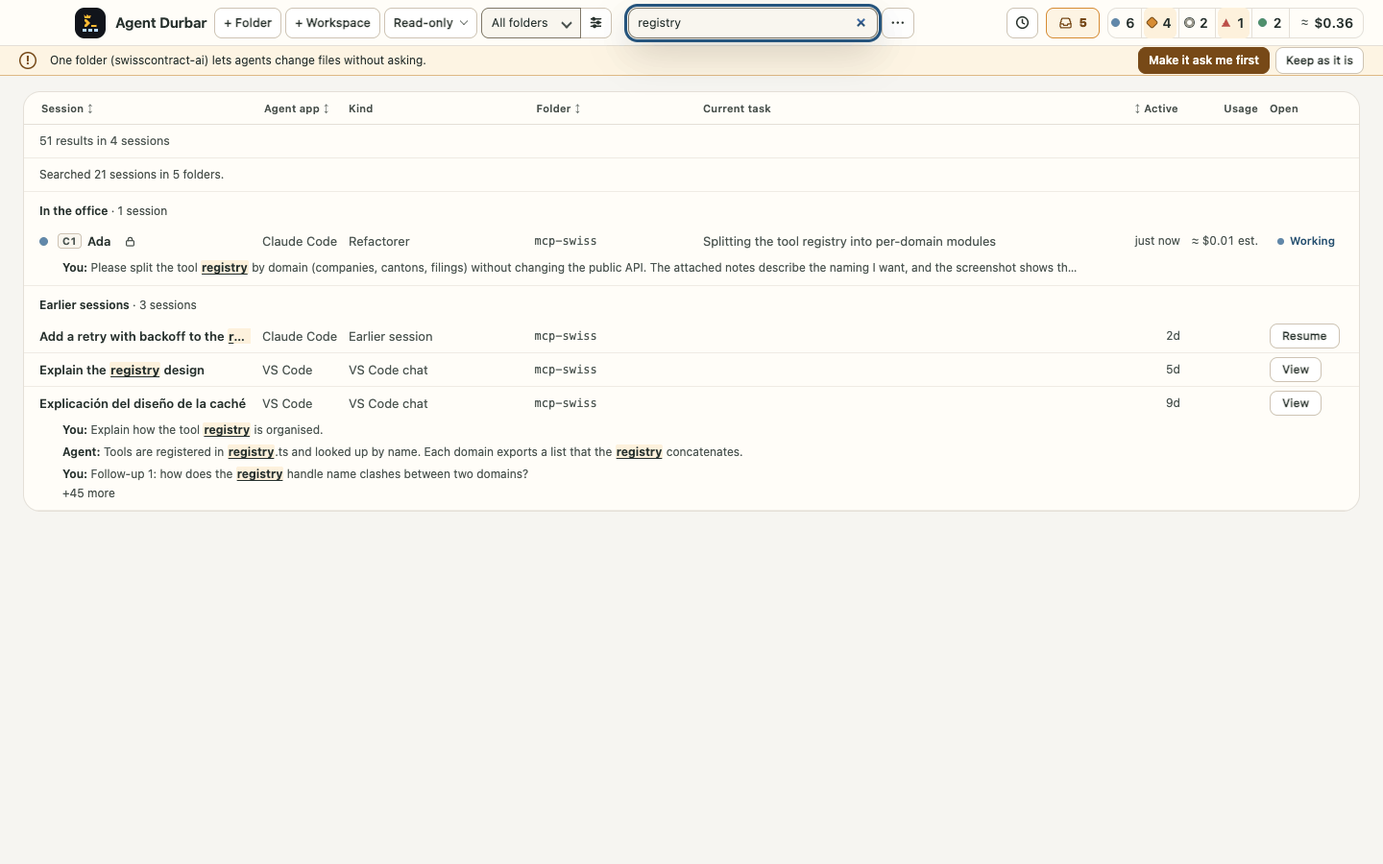
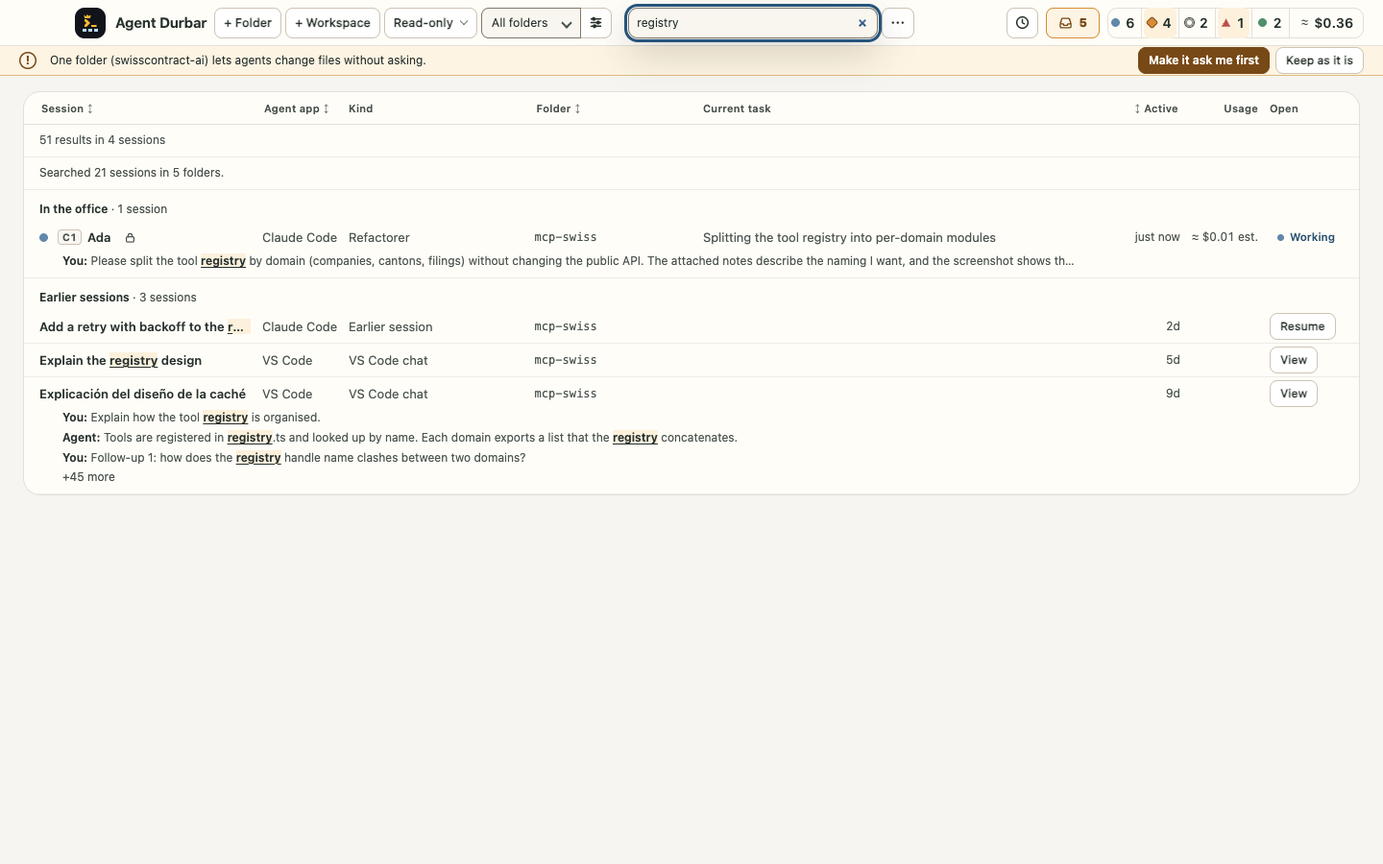
095: the search window's sizes from the type and spacing scale and its buttons the app's own class sets (spec 070 size ratchet from main); agent-notes within budget after main's entries

diff --git a/scripts/shots-095.js b/scripts/shots-095.js
@@ -38,7 +38,7 @@ module.exports = async (ctx) => {
   const shortcut = () => key('F', [MOD, 'shift'], { char: 'never' });
   const results = () => js(`(()=>{const L=document.getElementById('list');return {list:document.body.classList.contains('list-mode'),
     state:(L.querySelector('.cs-st')||{}).textContent||'',notes:(L.querySelector('.cs-notes')||{}).textContent||'',groups:[...L.querySelectorAll('.cs-ghead')].map(g=>g.textContent.trim()),
-    hits:[...L.querySelectorAll('.cs-hit')].map(h=>({k:h.dataset.csk,ex:h.querySelectorAll('.cs-ex').length,marks:h.querySelectorAll('mark').length})),stop:!!document.getElementById('csStop')};})()`);
+    hits:[...L.querySelectorAll('.cs-hit')].map(h=>({k:h.dataset.csk,ex:h.querySelectorAll('[data-csx]').length,marks:h.querySelectorAll('mark').length})),stop:!!document.getElementById('csStop')};})()`);
   const typeQuery = async (q) => {
     await js(`(()=>{const s=document.getElementById('convSearch');s.value='';s.dispatchEvent(new Event('input'));})()`);
     await ok(`!document.querySelector('#list .cs-wrap')`, 'an emptied box ends the search (no results left from the last one)', 3000);
@@ -51,7 +51,7 @@ module.exports = async (ctx) => {
   const fit = () => js(`(()=>{const L=document.getElementById('list'),rs=[...L.querySelectorAll('.cs-hit')].map(e=>e.getBoundingClientRect());
     const fonts=[...L.querySelectorAll('.cs-hit *, .cs-st, .cs-notes, .cs-ghead, .lhead *')].filter(e=>e.childNodes.length&&[...e.childNodes].some(n=>n.nodeType===3&&n.textContent.trim())).map(e=>parseFloat(getComputedStyle(e).fontSize));
     const over=rs.some((r,i)=>i>0&&r.top<rs[i-1].bottom-0.5);
-    const ex=[...L.querySelectorAll('.cs-ex')].map(e=>{const lh=parseFloat(getComputedStyle(e).lineHeight);return e.getBoundingClientRect().height/lh;});
+    const ex=[...L.querySelectorAll('[data-csx]')].map(e=>{const lh=parseFloat(getComputedStyle(e).lineHeight);return e.getBoundingClientRect().height/lh;});
     const de=document.documentElement;return {min:Math.min(...fonts),over,maxLines:Math.max(0,...ex),pageScroll:de.scrollHeight>innerHeight+1||de.scrollWidth>innerWidth+1,inner:getComputedStyle(L).overflowY};})()`);
   /* the marked bubble in the chat: inside the chat's view */
   const jumped = (vs) => js(`(()=>{const c=document.getElementById('chat'),b=c&&c.querySelector(${jsLiteral((vs ? '.vsbody ' : '') + '.bubble.nt-found')});if(!b)return null;const r=b.getBoundingClientRect(),q=c.getBoundingClientRect();return {text:b.textContent.slice(0,80),inView:r.top>=q.top-1&&r.bottom<=q.bottom+1};})()`);
@@ -156,7 +156,7 @@ module.exports = async (ctx) => {
     await ok(`!document.body.classList.contains('panel-open')&&!!document.querySelector('#list .cs-hit')`, `${w}: closing the chat comes back to the results`);
 
     // ---- US2.3: a VS Code chat opens in the viewer at its message ----
-    await js(`(()=>{const h=[...document.querySelectorAll('#list .cs-hit')].find(x=>/^earlier:vscode/.test(x.dataset.csk)&&x.querySelectorAll('.cs-ex').length>2);h.querySelectorAll('.cs-ex')[2].click();})()`);
+    await js(`(()=>{const h=[...document.querySelectorAll('#list .cs-hit')].find(x=>/^earlier:vscode/.test(x.dataset.csk)&&x.querySelectorAll('[data-csx]').length>2);h.querySelectorAll('[data-csx]')[2].click();})()`);
     await ok(`!!document.querySelector('#chat .vsbody .bubble.nt-found')`, `${w}: the VS Code viewer marks the message`);
     j = await jumped(true);
     assert.ok(j && j.inView && /Follow-up 1/.test(j.text), `${w}: the third excerpt's message: ${JSON.stringify(j)}`);
@@ -166,13 +166,13 @@ module.exports = async (ctx) => {
     // ---- US2.2: an earlier Claude Code session resumes at its message (Resume, the Previous sessions path) ----
     await typeQuery('filings handler');
     await doneWith(1);
-    await js(`(()=>{const h=[...document.querySelectorAll('#list .cs-hit')].find(x=>/^earlier:claude:/.test(x.dataset.csk)&&x.querySelector('.cs-ex'));h.querySelector('.cs-ex').click();})()`);
+    await js(`(()=>{const h=[...document.querySelectorAll('#list .cs-hit')].find(x=>/^earlier:claude:/.test(x.dataset.csk)&&x.querySelector('[data-csx]'));h.querySelector('[data-csx]').click();})()`);
     await ok(`document.body.classList.contains('panel-open')&&!!document.querySelector('#chat .bubble.nt-found')`, `${w}: the resumed session shows the message`, 12000);
     j = await jumped(false);
     assert.ok(j && j.inView && /filings/i.test(j.text), `${w}: the resumed session's message: ${JSON.stringify(j)}`);
     await closeChat();
     await ok(`!document.body.classList.contains('panel-open')`, `${w}: back`);
-    await ok(`[...document.querySelectorAll('#list .cs-act')].some(b=>b.textContent==='Open')`, `${w}: the resumed one now says Open (it is in the office)`);
+    await ok(`[...document.querySelectorAll('#list [data-csact]')].some(b=>b.textContent==='Open')`, `${w}: the resumed one now says Open (it is in the office)`);
 
     // ---- US3.2: Escape in the results clears the query and goes back to the Office view and the desk ----
     await focusBox();
@@ -195,16 +195,16 @@ module.exports = async (ctx) => {
     // US5.2: an earlier Copilot session is a title hit: Resume opens it at the end, no message marked
     await typeQuery('backoff');
     await doneWith(1);
-    await ok(`[...document.querySelectorAll('#list .cs-hit')].some(x=>/^earlier:copilot:/.test(x.dataset.csk)&&!x.querySelector('.cs-ex')&&x.querySelector('mark'))`, `${w}: an earlier Copilot session matches by its title, marked, with no excerpt`);
+    await ok(`[...document.querySelectorAll('#list .cs-hit')].some(x=>/^earlier:copilot:/.test(x.dataset.csk)&&!x.querySelector('[data-csx]')&&x.querySelector('mark'))`, `${w}: an earlier Copilot session matches by its title, marked, with no excerpt`);
     assert.ok(/Not searched: earlier GitHub Copilot sessions, by title only \(\d+\)\./.test((await results()).notes), `${w}: the end state says Copilot's earlier sessions are searched by title only (Q4)`);
-    await js(`[...document.querySelectorAll('#list .cs-hit')].find(x=>/^earlier:copilot:/.test(x.dataset.csk)).querySelector('.cs-act').click()`);
+    await js(`[...document.querySelectorAll('#list .cs-hit')].find(x=>/^earlier:copilot:/.test(x.dataset.csk)).querySelector('[data-csact]').click()`);
     await ok(`document.body.classList.contains('panel-open')`, `${w}: Resume opens it`, 12000);
     await ctx.sleep(400);
     assert.ok(!(await js(`!!document.querySelector('#chat .bubble.nt-found')`)), `${w}: a title hit opens at the end, no message marked`);
     await closeChat();
     await typeQuery('pipeline');
     await doneWith(1);
-    await js(`document.querySelector('#list .cs-row ~ .cs-exs .cs-ex').click()`);
+    await js(`document.querySelector('#list .cs-row ~ .cs-exs [data-csx]').click()`);
     await ok(`document.body.classList.contains('panel-open')`, `${w}: the chat opens`);
     await ok(`[...document.querySelectorAll('#toasts .toast')].some(t=>t.textContent.includes('That message is older than the chat shows.'))`, `${w}: "That message is older than the chat shows."`);
     assert.ok(!(await js(`!!document.querySelector('#chat .bubble.nt-found')`)), `${w}: and no wrong message is marked`);
@@ -231,7 +231,7 @@ module.exports = async (ctx) => {
         {adapter:'claude',sessionId:'evil-earlier',agentId:a.id,group:'earlier',app:'Claude Code',folderName:'demo',title:${jsLiteral('Evil ' + PAT)},titleMarks:[[0,4]],time:Date.now()-60000,excerpts:[],more:0}],progress:{done:1,total:9},groups:{office:1,earlier:1}});return a.id;})()`);
     await ok(`[...document.querySelectorAll('#list .cs-hit button.lrow[data-id]')].some(b=>b.dataset.id===${jsLiteral(injected)})`, `${w}: the injected result is shown`, 3000);
     const inj = await js(`(()=>{const h=[...document.querySelectorAll('#list .cs-hit')].find(x=>x.querySelector('button.lrow[data-id]')&&x.querySelector('button.lrow').dataset.id===${jsLiteral(injected)});
-      const rows=h.querySelectorAll('button.lrow'),b=rows[0];return {rows:rows.length,styled:[...document.querySelectorAll('#list [style]')].length,attrs:[...b.attributes].map(x=>x.name).sort(),label:b.getAttribute('aria-label'),name:(b.querySelector('.lnm')||{}).textContent,ex:(h.querySelector('.cs-ex')||{}).textContent};})()`);
+      const rows=h.querySelectorAll('button.lrow'),b=rows[0];return {rows:rows.length,styled:[...document.querySelectorAll('#list [style]')].length,attrs:[...b.attributes].map(x=>x.name).sort(),label:b.getAttribute('aria-label'),name:(b.querySelector('.lnm')||{}).textContent,ex:(h.querySelector('[data-csx]')||{}).textContent};})()`);
     assert.strictEqual(inj.rows, 1, `${w}: one row button: ${JSON.stringify(inj)}`);
     assert.strictEqual(inj.styled, 0, `${w}: no style attribute anywhere in the results: ${JSON.stringify(inj)}`);
     assert.deepStrictEqual(inj.attrs, ['aria-label', 'aria-pressed', 'class', 'data-csf', 'data-csk', 'data-csnav', 'data-id'], `${w}: only the row's own attributes`);
@@ -329,7 +329,7 @@ module.exports = async (ctx) => {
   await H.calm();
   await typeQuery('registry');
   await doneWith(1);
-  await js(`document.querySelector('#list .cs-row ~ .cs-exs .cs-ex').click()`);
+  await js(`document.querySelector('#list .cs-row ~ .cs-exs [data-csx]').click()`);
   await ok(`!!document.querySelector('#chat .bubble.nt-found')`, 'Real office: a result opens at its message');
   // ---- FR-050: reduced motion: the jump marks the message without a fade (the outline stays, no animation) ----
   {
@@ -342,7 +342,7 @@ module.exports = async (ctx) => {
       assert.ok(await js(`matchMedia('(prefers-reduced-motion: reduce)').matches`), 'reduced motion is emulated');
       await typeQuery('registry');
       await doneWith(1);
-      await js(`document.querySelector('#list .cs-row ~ .cs-exs .cs-ex').click()`);
+      await js(`document.querySelector('#list .cs-row ~ .cs-exs [data-csx]').click()`);
       await ok(`!!document.querySelector('#chat .bubble.nt-found')`, 'reduced motion: the message is marked');
       const st = await js(`(()=>{const b=document.querySelector('#chat .bubble.nt-found'),cs=getComputedStyle(b);return {anim:cs.animationName,outline:cs.outlineStyle};})()`);
       assert.ok(st.anim === 'none' && st.outline === 'solid', `reduced motion: an outline, no fade: ${JSON.stringify(st)}`);

diff --git a/src/renderer/app.js b/src/renderer/app.js
@@ -2114,9 +2114,9 @@ function renderConvResults(){
     const on=CS.sort&&CS.sort.key===k,dir=on?(CS.sort.dir==='asc'?'ascending':'descending'):'none';
     return `<span role="columnheader" aria-sort="${dir}"${k==='folder'?' class="lfold"':k==='ago'?' class="num"':''}><button type="button" class="lsort" data-cssort="${k}" data-csf="sort-${k}" title="Sort the results by ${esc(t.toLowerCase())}">${esc(t)}<span class="sarr" aria-hidden="true">${on?(CS.sort.dir==='asc'?'▲':'▼'):'↕'}</span></button></span>`;}).join('');
   const scanning=!!st&&!st.done;
-  const state=st?`<div class="cs-state"><span class="cs-st">${esc(CSU.stateText(st))}</span>${scanning&&CS.id?'<button class="btn cs-stop" type="button" id="csStop" data-csf="stop">Stop</button>':''}</div>`:'';
+  const state=st?`<div class="cs-state"><span class="cs-st">${esc(CSU.stateText(st))}</span>${scanning&&CS.id?'<button class="btn sm" type="button" id="csStop" data-csf="stop">Stop</button>':''}</div>`:'';
   const notes=st&&st.done?CSU.notesText(st):'';
-  const ex=(h,k)=>h.excerpts&&h.excerpts.length?`<div class="cs-exs">${h.excerpts.map((x,i)=>`<button type="button" class="cs-ex" data-csk="${esc(k)}" data-csx="${i}" data-csf="${esc(k)}#${i}" title="${h.group==='office'?'Open the chat at this message':h.adapter==='vscode'?'View this chat at this message':'Resume this session at this message'}">${CSU.excerptHTML(x,esc)}</button>`).join('')}${h.more?`<span class="cs-more">+${h.more} more</span>`:''}</div>`:'';
+  const ex=(h,k)=>h.excerpts&&h.excerpts.length?`<div class="cs-exs">${h.excerpts.map((x,i)=>`<button type="button" data-csk="${esc(k)}" data-csx="${i}" data-csf="${esc(k)}#${i}" title="${h.group==='office'?'Open the chat at this message':h.adapter==='vscode'?'View this chat at this message':'Resume this session at this message'}">${CSU.excerptHTML(x,esc)}</button>`).join('')}${h.more?`<span class="cs-more">+${h.more} more</span>`:''}</div>`:'';
   const officeRow=h=>{
     const a=byId(h.agentId), k=CSU.keyOf(h); if(!a)return '';
     const named=h.titleMarks&&h.titleMarks.length&&h.title===a.name; /* FR-011: a title match marked in the row's title */
@@ -2125,7 +2125,7 @@ function renderConvResults(){
   const earlierRow=h=>{
     const k=CSU.keyOf(h), opened=h.openedAs&&byId(h.openedAs), view=h.adapter==='vscode', ago=h.time?ACT.agoShort(Math.max(0,Date.now()-h.time)):'', agoL=h.time?ACT.agoLong(Math.max(0,Date.now()-h.time)):'';
     const act=opened?'Open':view?'View':'Resume';
-    return `<div class="cs-hit" data-csk="${esc(k)}"><div class="lrow cs-prow"><span class="lname"><span class="lnm" title="${esc(h.title)}">${CSU.markedHTML(h.title,h.titleMarks,esc)}</span></span><span class="lcell" title="${esc(h.app)}">${esc(h.app)}</span><span class="lcell lrole">${view?'VS Code chat':'Earlier session'}</span><span class="lcell mono lfold" title="${esc(h.folderName)}">${esc(h.folderName)}</span><span class="lcell"></span><span class="lcell num"${agoL?` title="Last active ${esc(agoL)}"`:''}>${esc(ago)}</span><span class="lcell num"></span><span><button class="btn cs-act" type="button" data-csk="${esc(k)}" data-csnav="1" data-csf="${esc(k)}" aria-label="${esc(act+': '+CSU.accName(h))}">${act}</button></span></div>${ex(h,k)}</div>`;};
+    return `<div class="cs-hit" data-csk="${esc(k)}"><div class="lrow cs-prow"><span class="lname"><span class="lnm" title="${esc(h.title)}">${CSU.markedHTML(h.title,h.titleMarks,esc)}</span></span><span class="lcell" title="${esc(h.app)}">${esc(h.app)}</span><span class="lcell lrole">${view?'VS Code chat':'Earlier session'}</span><span class="lcell mono lfold" title="${esc(h.folderName)}">${esc(h.folderName)}</span><span class="lcell"></span><span class="lcell num"${agoL?` title="Last active ${esc(agoL)}"`:''}>${esc(ago)}</span><span class="lcell num"></span><span><button class="btn sm" type="button" data-csact="1" data-csk="${esc(k)}" data-csnav="1" data-csf="${esc(k)}" aria-label="${esc(act+': '+CSU.accName(h))}">${act}</button></span></div>${ex(h,k)}</div>`;};
   const group=(g,title,list,row)=>list.length?`<div class="cs-ghead" role="heading" aria-level="3">${esc(title)} <span>· ${list.length===1?'1 session':list.length+' sessions'}</span></div>${list.map(row).join('')}`:'';
   const none=st&&st.done&&!CSU.count(st)&&!st.failed?`<div class="empty">No conversation matches “${esc(CS.q.trim())}”.</div>`:'';
   L.innerHTML=`<div class="list-wrap cs-wrap" role="group" aria-label="Search results" data-sort="${CS.sort?CS.sort.key:''}"><div class="lrow lhead" role="row">${head}</div>${state}${notes?`<div class="cs-notes">${esc(notes)}</div>`:''}${group('office','In the office',view.office,officeRow)}${group('earlier','Earlier sessions',view.earlier,earlierRow)}${none}</div>`;
@@ -2217,13 +2217,13 @@ function csWire(){
     e.stopPropagation(); e.preventDefault();
     const h=CS.st&&CS.st.hits.get(k.dataset.csk); if(!h)return;
     const x=k.dataset.csx!=null?h.excerpts[+k.dataset.csx]:h.excerpts&&h.excerpts[0];
-    csOpen(h,x||null,k.matches('.cs-act')?k:null);
+    csOpen(h,x||null,k.matches('[data-csact]')?k:null);
   });
   /* US3.3: J/K and the arrows move between results like the List view; Escape clears and goes back */
   L.addEventListener('keydown',e=>{
     if(!CS.active||e.altKey||e.ctrlKey||e.metaKey||e.isComposing)return;
     if(e.key==='Escape'&&!e.shiftKey&&!e.target.closest('[role="menu"]')){e.preventDefault();e.stopPropagation();if(s)s.value='';csEnd({restore:true,clearBox:true});return;}
-    if(e.shiftKey||!/^(j|k|J|K|ArrowDown|ArrowUp)$/.test(e.key)||!e.target.closest('[data-csnav],.cs-ex,[data-cssort]'))return;
+    if(e.shiftKey||!/^(j|k|J|K|ArrowDown|ArrowUp)$/.test(e.key)||!e.target.closest('[data-csnav],[data-csx],[data-cssort]'))return;
     const rows=[...L.querySelectorAll('[data-csnav]')], cur=e.target.closest('.cs-hit'), i=cur?rows.findIndex(r=>r.closest('.cs-hit')===cur):-1, down=/^(j|J|ArrowDown)$/.test(e.key);
     const n=i<0?(down?rows[0]:null):rows[Math.max(0,Math.min(rows.length-1,i+(down?1:-1)))];
     e.preventDefault(); e.stopPropagation(); if(n)focusIn(n); else if(!down&&s)focusIn(s);

diff --git a/src/renderer/styles.css b/src/renderer/styles.css
@@ -2187,32 +2187,31 @@ h2,h3,h4{text-wrap:balance}
 .cs-box{display:none;position:relative;align-items:center;flex:none}
 body.has-csearch .cs-box{display:flex}
 body.has-csearch.cs-demo .cs-box{visibility:hidden} /* the demo office: kept in the layout (no relayout when the demo is turned on or off), nothing to search */
-.cs-box input{height:var(--h-ctl);width:172px;border:1px solid var(--line-ctl);background:var(--surface-2);color:var(--ink);border-radius:var(--r-md);padding:0 9px;font:inherit;font-size:12.5px}
+.cs-box input{height:var(--h-ctl);width:172px;border:1px solid var(--line-ctl);background:var(--surface-2);color:var(--ink);border-radius:var(--r-md);padding:0 var(--s-2);font:inherit;font-size:var(--t4-size)}
 .cs-box input::placeholder{color:var(--muted)}
 .cs-box input[aria-invalid="true"]{border-color:var(--tone-warn-line)}
-.cs-mag{display:none;height:var(--h-ctl);width:var(--h-ctl);padding:0;align-items:center;justify-content:center}
-.topbar.tb-search .cs-mag{display:inline-flex}
+#convSearchBtn{display:none;height:var(--h-ctl);width:var(--h-ctl);padding:0;align-items:center;justify-content:center}
+.topbar.tb-search #convSearchBtn{display:inline-flex}
 .topbar.tb-search .cs-box input{display:none}
 .topbar.tb-search .cs-box.open input{display:block;position:absolute;right:0;top:50%;transform:translateY(-50%);width:260px;z-index:40;box-shadow:var(--shadow-pop)} /* over the bar's own controls, never over the banner below (review of PR 1240, Q3) */
-.topbar.tb-search .cs-box.has-q:not(.open) .cs-mag{box-shadow:inset 0 -2px 0 var(--focus)} /* a query is active: the magnifier says so (and its accessible name holds the query) */
-.cs-hint{position:absolute;right:calc(100% + 6px);top:50%;transform:translateY(-50%);z-index:41;max-width:360px;width:max-content;white-space:normal;font-size:12px;line-height:16px;padding:3px 9px;border:1px solid var(--line);border-radius:var(--r-md);background:var(--raised);color:var(--ink-2);box-shadow:var(--shadow-pop)} /* in the bar, left of the field, never over the banner below (review of PR 1240) */
+.topbar.tb-search .cs-box.has-q:not(.open) #convSearchBtn{border-color:var(--focus);color:var(--ink)} /* a query is active: the magnifier says so (and its accessible name holds the query) */
+.cs-hint{position:absolute;right:calc(100% + 6px);top:50%;transform:translateY(-50%);z-index:41;max-width:360px;width:max-content;white-space:normal;font-size:var(--t4-size);line-height:var(--t5-lh);padding:var(--s-1) var(--s-2);border:1px solid var(--line);border-radius:var(--r-md);background:var(--raised);color:var(--ink-2);box-shadow:var(--shadow-pop)} /* in the bar, left of the field, never over the banner below (review of PR 1240) */
 .topbar.tb-search .cs-box.open .cs-hint{right:calc(260px + 6px)} /* left of the opened field, which lies over the bar */
 .cs-hint[hidden]{display:none}
 
-/* FR-004, FR-010, FR-052: the results view in #list, in the List's own grid; rows never overlap, an excerpt is at most two lines */
+/* FR-004, FR-010, FR-052: the results view in #list, in the List's own grid; rows never overlap, an excerpt is at most two lines.
+   Sizes from the type and spacing scale (spec 070 FR-054); the buttons are the app's own .btn.sm and plain buttons. */
 .cs-state,.cs-notes,.cs-ghead,.cs-exs{grid-column:1/-1}
-.cs-state{display:flex;align-items:center;gap:10px;padding:8px 16px;font-size:12.5px;color:var(--ink-2);border-bottom:1px solid var(--line-soft)}
-.cs-state .cs-stop{height:26px;padding:0 10px;font-size:12px}
-.cs-notes{padding:8px 16px;font-size:12px;line-height:18px;color:var(--muted);border-bottom:1px solid var(--line-soft)}
-.cs-ghead{padding:12px 16px 6px;font-size:12px;font-weight:650;color:var(--ink)}
-.cs-ghead span{font-weight:400;color:var(--muted)}
+.cs-state{display:flex;align-items:center;gap:var(--s-3);padding:var(--s-2) var(--s-4);font-size:var(--t4-size);color:var(--ink-2);border-bottom:1px solid var(--line-soft)}
+.cs-notes{padding:var(--s-2) var(--s-4);font-size:var(--t4-size);line-height:var(--t4-lh);color:var(--muted);border-bottom:1px solid var(--line-soft)}
+.cs-ghead{padding:var(--s-3) var(--s-4) var(--s-1);font-size:var(--t4-size);font-weight:var(--t1-weight);color:var(--ink)}
+.cs-ghead span{font-weight:var(--t3-weight);color:var(--muted)}
 .cs-hit{display:grid;grid-template-columns:subgrid;grid-column:1/-1;border-bottom:1px solid var(--line-soft)}
 .cs-hit>.lrow{border-bottom:0}
 .lrow.cs-prow{cursor:default}
-.cs-prow .cs-act{height:26px;padding:0 12px;font-size:12px}
-.cs-exs{display:flex;flex-direction:column;gap:2px;padding:0 16px 8px 34px;min-width:0}
-.cs-ex{display:-webkit-box;-webkit-line-clamp:2;-webkit-box-orient:vertical;overflow:hidden;text-align:left;font:inherit;font-size:12px;line-height:17px;color:var(--ink-2);background:transparent;border:0;border-radius:6px;padding:2px 6px;cursor:pointer;max-width:100%;overflow-wrap:anywhere}
-.cs-ex:hover{background:var(--surface-2)}
-.cs-who{font-weight:650;color:var(--ink)}
-.cs-more{font-size:12px;color:var(--muted);padding:0 6px}
-.cs-wrap mark,.cs-hit mark{background:var(--warn-bg);color:var(--ink);font-weight:700;text-decoration:underline;text-decoration-thickness:1px;text-underline-offset:2px;border-radius:2px;padding:0 1px}
+.cs-exs{display:flex;flex-direction:column;gap:var(--s-1);padding:0 var(--s-4) var(--s-2) calc(var(--s-5) + var(--s-3));min-width:0}
+.cs-exs>button{display:-webkit-box;-webkit-line-clamp:2;-webkit-box-orient:vertical;overflow:hidden;text-align:left;font:inherit;font-size:var(--t4-size);line-height:var(--t4-lh);color:var(--ink-2);background:transparent;border:0;border-radius:var(--r-sm);padding:0 var(--s-1);cursor:pointer;max-width:100%;overflow-wrap:anywhere}
+.cs-exs>button:hover{background:var(--surface-2)}
+.cs-who{font-weight:var(--t1-weight);color:var(--ink)}
+.cs-more{font-size:var(--t4-size);color:var(--muted);padding:0 var(--s-1)}
+.cs-wrap mark,.cs-hit mark{background:var(--warn-bg);color:var(--ink);font-weight:var(--t1-weight);text-decoration:underline;text-decoration-thickness:1px;text-underline-offset:2px;padding:0}

diff --git a/src/renderer/index.html b/src/renderer/index.html
@@ -47,7 +47,7 @@
     </div>
     <!-- spec 095 FR-001 (Q1): search the text of every open and earlier session; on a narrow top bar it is the magnifier, which opens the field -->
     <div class="cs-box" id="convSearchWrap">
-      <button class="btn cs-mag" id="convSearchBtn" type="button" aria-expanded="false" aria-controls="convSearch" aria-label="Search conversations" title="Search conversations"><svg viewBox="0 0 16 16" width="14" height="14" fill="none" stroke="currentColor" stroke-width="1.6" stroke-linecap="round" aria-hidden="true" focusable="false"><circle cx="7" cy="7" r="4.4"/><path d="M10.3 10.3l3.4 3.4"/></svg></button>
+      <button class="btn" id="convSearchBtn" type="button" aria-expanded="false" aria-controls="convSearch" aria-label="Search conversations" title="Search conversations"><svg viewBox="0 0 16 16" width="14" height="14" fill="none" stroke="currentColor" stroke-width="1.6" stroke-linecap="round" aria-hidden="true" focusable="false"><circle cx="7" cy="7" r="4.4"/><path d="M10.3 10.3l3.4 3.4"/></svg></button>
       <input id="convSearch" type="search" aria-label="Search conversations" placeholder="Search conversations" autocomplete="off" spellcheck="false" maxlength="400" aria-describedby="convSearchHint">
       <span class="cs-hint" id="convSearchHint" role="status" hidden></span>
     </div>

diff --git a/docs/agent-notes.md b/docs/agent-notes.md
@@ -70,7 +70,7 @@ Each entry: **what** (bold), why, how to apply, evidence (`real:`, `read:`, `tes
 - **A new renderer script needs a line in `scripts/copy-assets.js`** and its `<script>` tag, or the page silently runs without it (`window.DurbarX` undefined); check `ls dist/renderer` and let a driver assert something it draws (#605, spec 087 T030).
 - **A screen no driver opens can break unseen** (#474).
 - **A new event type needs `EVENT_TYPES` in `eventguard.ts` and the contract's `TYPES`** (spec 087).
-- **An issue number in a renderer comment is a colour literal**: `test:theme-tokens` counts `#` + 3-8 hex digits in `app.js`, `screens.js`, `scenekits.js`, `index.html`, comments included. Write "PR 642" / "issue 619"; "N literals, ratchet allows N-1" after a merge is often this (PRs #498, #511, #535, #642).
+- **An issue number in a renderer comment is a colour literal**: `test:theme-tokens` counts `#` + 3-8 hex digits in `app.js`, `screens.js`, `scenekits.js`, `index.html`, comments too; write "PR 642". A ratchet one over after a merge is often this (#498, #642).
 - **Theme values: two copies, one corpus**: typed-token grammar lives in `theme.js` and `src/shared/themetokens.ts`; change both (`BAR_*` too), run `test:theme-tokens` (`THEME_LITERALS_WRITE=1`, `inventory.js --update` lower). An inline custom property beats `html[data-ui=...]` in `themes.css` (spec 070).
 - **`\s` inside a page-code template literal is `s`**: write `\\s`, `\\n`, `\\d`, and print the tested text in the message. Match time-left text as a range (spec 068 T021).
 - **`webContents.executeJavaScript` waits for a returned promise**: end a line that opens a dialog with `void ...;0`. `H.calm()` hides `#toasts` for the rest of the run: use `H.clearToasts()` when you check a toast (spec 080).
@@ -96,7 +96,7 @@ Each entry: **what** (bold), why, how to apply, evidence (`real:`, `read:`, `tes
 - **"Chat open" has no office**: `body.panel-open` hides `#stage-host`; check closed, open, closed. A window is at least 640x480 (`minHeight`) (spec 001).
 - **A driver loads the `dist` of the tree it lives in**: to compare builds, `require` the tested tree's helpers or pass `index:` to `H.load` (2026-10-25, `sim:`).
 - **Floors on: a driver sees one floor**: run every driver that loads `simfloors` (`grep -l simfloors scripts/*.js`); walk floors with `H.eachFloor` / `H.goToFloor` or use `simfloors=ground`. PageDown on the body does not scroll `#floor`; the key handler does (spec 092 phase 1).
-- **`String.replace`'s string replacement expands `$&`, `` $` ``, `$'`** (`esc()` keeps `$`): data patched into HTML that way injects markup (spec 095 R1). Pass it to the builder or use a function.
+- **A `String.replace` string replacement expands `$&`, `` $` ``, `$'`** (`esc()` keeps `$`): patched-in data injects markup (spec 095). Pass data to builders.
 - **`announce()` keeps the last text within 60 ms**: in a driver wait for each announcement (`until` on a `MutationObserver` list of `#srAnnounce`, filter "Floor ") before the next change (spec 092 phase 2).
 - **A marker keyed on "a turn just ended" fires on the simulator's start-up replay**: gate it with `SIM&&!window.__durbarSimReplayed`; an opened chat makes a Done agent Idle (`Ready in <folder>`) (#691).
 - **A driver that counts "today" needs a pinned clock** (`simclock=<ms>`, spec 001 FR-084): seeded schedules first run 12 minutes after start, so a run near midnight sees none (PR 621, `real:` CI at 23:54).
@@ -136,7 +136,7 @@ Each entry: **what** (bold), why, how to apply, evidence (`real:`, `read:`, `tes
 - **A shortcut clash check needs more than the app's keys**: macOS Control letters edit text, IBus owns Ctrl+Shift+U/E, and handlers match `e.key` or `e.code` (Dvorak). Refuse a recorded shortcut whose position or typed letter is taken (`clashOf` in `navigator.js`); `test-navigator.ts` scans `app.js` (#552).
 - **CSS subgrid rows count the row's padding inside the first and last tracks**: add it to those track sizes and measure the cell (#812, spec 001 FR-182).
 - **Scene pictures**: an `<image href>` with a relative path works under `img-src 'self'`; detect a broken one with `new Image()` + `decode()` and key it in `data-sig` (`check-crew.js`). Pillow `save(..., 'WEBP', exif=b'')` writes clean chunks (`test:crew-assets`) (spec 077).
-- **`FACE` points don't move a seat's face** (crop anchored at 62%); only pixels decide if the badge covers it: on a `check-crew` seat failure look at the picture, read points on a 50 px grid with a red 110x140 box beside a Cheeky one (#815). Retro Pixel bed step flaked 3/5 until it waited for two reads 300 ms apart to agree.
+- **`FACE` points don't move a seat's face** (crop at 62%): only pixels decide if the badge covers it; on a `check-crew` seat failure look at the picture, read points on a 50 px grid, a red 110x140 box beside a Cheeky one (#815). Retro Pixel's bed step flaked 3/5 until two reads 300 ms apart had to agree.
 - **A destroyed `WebContentsView` has no `webContents`**: keep the `webContents` before `close()` to check `isDestroyed()` and the OS process (`process.kill(pid, 0)` gives `ESRCH`). `Page.getNavigationHistory` gives each entry a `transitionType` (`form_submit` for a form), so main knows a form page without reading it; `sendInputEvent` (`char`) fires a view's `input-event`. `sim:` spec 080 T013/T018.
 - **The simulator's End session never reaches main**: a driver that checks a browser teardown uses the driver-context hooks `ctx.browserGone` / `ctx.browserStates` (`main.ts`), not the renderer.
 - **No referrer from a custom scheme** (2026-10-31): a `durbar-sim:` `_blank` has `referrer.url === ''`; test referrer rules over loopback http (`check-browser-tabs.js`).

diff --git a/specs/095-search-conversations/spec.md b/specs/095-search-conversations/spec.md
@@ -316,5 +316,6 @@ Built: `src/renderer/convsearch.js` (pure: groups, order, marks, state and end-s
 - **R7**: FR-015 says what was built: a plain state line, the speech through `announce()` at the 2 s pace.
 - **Q1**: bidi embedding, override and isolate controls (U+202A..U+202E, U+2066..U+2069) are dropped from titles and excerpts for display, the marks moved with the text (`dropBidi`, `test:convsearchui`). Other default-ignorable characters stay as the masking left them.
 - **Q3**: on a narrow bar the opened field lies over the bar's own controls, to the left of the magnifier, never over the banner row; it closes when the focus leaves it (the query and the results stay; the magnifier is underlined and its name holds the query). The hint ("Type at least 3 characters", "Open a session first; ...") is in the bar too, left of the field (two lines at most), never over the banner (`shots-095` checks both at both sizes with a long banner).
+- **Size ratchet (spec 070 FR-054, merged from main)**: the search window's sizes come from the type and spacing scale (`--t4-size`, `--s-*`, `--r-*`, `--shadow-pop`) and its buttons use the app's own class sets (`btn`, `btn sm`, plain buttons under `.cs-exs`; the code finds them by `data-csact`, `data-csx` and the ids), so `scripts/fixtures/ui-inventory.json` is unchanged.
 - **Q2**: the Go to recorder keeps refusing Ctrl+Shift+F after the search moved off it: it is the search's reserved default (`TAKEN` is static), so a Reset of the search key always works.
 
